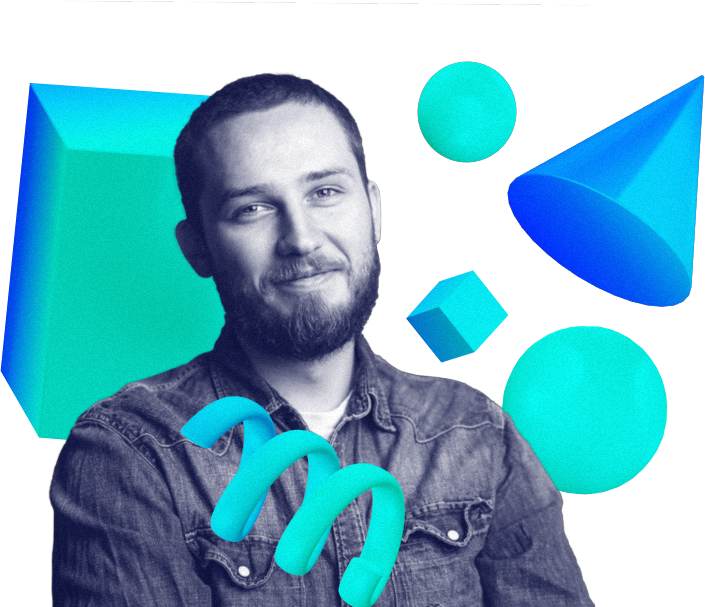
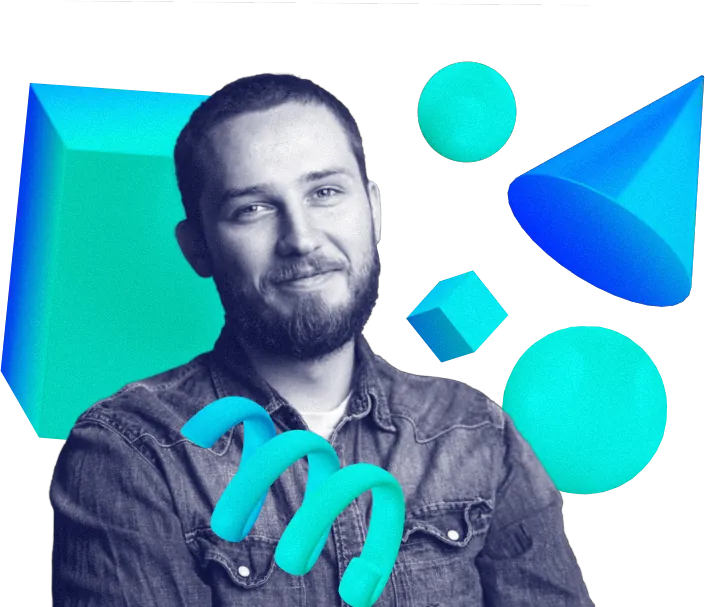
revert CSS changes, only replace Grafmobile.webp with lossy+alpha (47KB)

diff --git a/css/home.css b/css/home.css
@@ -1045,8 +1045,8 @@
     padding: 0;
     min-height: auto;
     background:
-      linear-gradient(180deg, rgba(6,14,24,0.7) 0%, rgba(6,14,24,0.15) 40%, rgba(6,14,24,0.65) 100%) center/100% 100% no-repeat,
-      url('../Figma/placeholder_hero1.webp') center/100% 100% no-repeat;
+      linear-gradient(180deg, rgba(6,14,24,0.7) 0%, rgba(6,14,24,0.15) 40%, rgba(6,14,24,0.65) 100%),
+      url('../Figma/placeholder_hero1.webp') center/cover no-repeat;
   }
   .hm-hero__text { padding: 48px 48px 36px; gap: 24px; }
   .hm-hero__pills { gap: 12px; }
